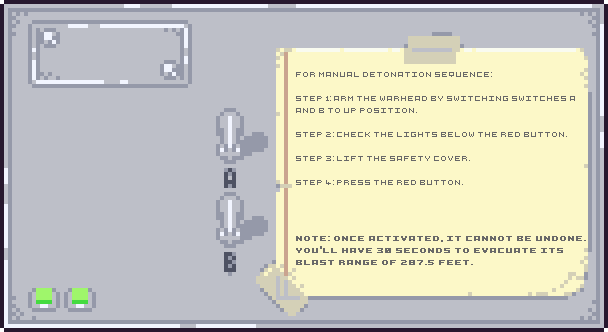
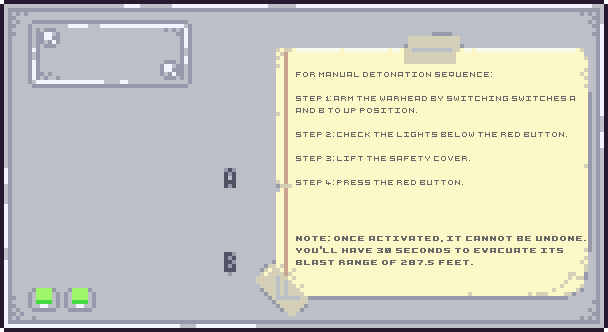
switch swotch

Changed region(s): [[0.3438, 0.5723, 0.4688, 0.753], [0.3438, 0.3313, 0.4375, 0.512]]

diff --git a/UI/NukeDetonationUI.cs b/UI/NukeDetonationUI.cs
@@ -18,9 +18,13 @@ namespace Redemption.UI
     {
         private readonly UIImage BgSprite = new(ModContent.Request<Texture2D>("Redemption/UI/NukeDetonationUI_BG", ReLogic.Content.AssetRequestMode.ImmediateLoad));
         private readonly UIImage ButtonSprite = new(ModContent.Request<Texture2D>("Redemption/UI/NukeDetonationUI_Button1", ReLogic.Content.AssetRequestMode.ImmediateLoad));
+        private readonly UIImageButton SwitchSprite1 = new(ModContent.Request<Texture2D>("Redemption/UI/NukeDetonationUI_SwitchDown", ReLogic.Content.AssetRequestMode.ImmediateLoad));
+        private readonly UIImageButton SwitchSprite2 = new(ModContent.Request<Texture2D>("Redemption/UI/NukeDetonationUI_SwitchDown", ReLogic.Content.AssetRequestMode.ImmediateLoad));
         public readonly UIImageButton Button = new(ModContent.Request<Texture2D>(Redemption.EMPTY_TEXTURE));
 
         public int ButtonState = 0;
+        public bool Switch1State;
+        public bool Switch2State;
         public int Timer = 0;
         public static bool Visible = false;
 
@@ -31,6 +35,20 @@ namespace Redemption.UI
             BgSprite.Top.Set((Main.screenHeight / 2) - 332 / 2, 0f);
             BgSprite.Left.Set((Main.screenWidth / 2) - 608 / 2, 0f);
             BgSprite.VAlign = BgSprite.HAlign = 0.5f;
+
+            SwitchSprite1.Left.Set(216, 0f);
+            SwitchSprite1.Top.Set(108, 0f);
+            SwitchSprite1.Width.Set(52, 0f);
+            SwitchSprite1.Height.Set(48, 0f);
+            SwitchSprite1.OnClick += new MouseEvent(Switch1Clicked);
+            BgSprite.Append(SwitchSprite1);
+
+            SwitchSprite2.Left.Set(216, 0f);
+            SwitchSprite2.Top.Set(192, 0f);
+            SwitchSprite2.Width.Set(52, 0f);
+            SwitchSprite2.Height.Set(48, 0f);
+            SwitchSprite2.OnClick += new MouseEvent(Switch2Clicked);
+            BgSprite.Append(SwitchSprite2);
 
             ButtonSprite.Left.Set(8, 0f);
             ButtonSprite.Top.Set(-112, 0f);
@@ -57,20 +75,37 @@ namespace Redemption.UI
 
             Append(BgSprite);
         }
+        private void Switch1Clicked(UIMouseEvent evt, UIElement listeningElement)
+        {
+            SoundEngine.PlaySound(SoundID.MenuTick);
+            SwitchSprite1.SetImage(ModContent.Request<Texture2D>("Redemption/UI/NukeDetonationUI_SwitchUp", ReLogic.Content.AssetRequestMode.ImmediateLoad));
+            Switch1State = true;
+            Main.isMouseLeftConsumedByUI = true;
+        }
+        private void Switch2Clicked(UIMouseEvent evt, UIElement listeningElement)
+        {
+            SoundEngine.PlaySound(SoundID.MenuTick);
+            SwitchSprite2.SetImage(ModContent.Request<Texture2D>("Redemption/UI/NukeDetonationUI_SwitchUp", ReLogic.Content.AssetRequestMode.ImmediateLoad));
+            Switch2State = true;
+            Main.isMouseLeftConsumedByUI = true;
+        }
         private void NukeButtonClicked(UIMouseEvent evt, UIElement listeningElement)
         {
             SoundEngine.PlaySound(SoundID.MenuTick);
-            if (ButtonState < 2 && Vector2.Distance(RedeWorld.nukeGroundZero, new Vector2(Main.spawnTileX * 16, Main.spawnTileY * 16)) > (Main.maxTilesX / 8 * 16) && RedeWorld.nukeGroundZero.Y < (Main.worldSurface * 16f))
+            if (Switch1State && Switch2State)
             {
-                ++ButtonState;
-            }
-            else if (ButtonState < 2)
-            {
-                string status = "The bomb must be activated on the surface and in the far reaches of the world";
-                if (Main.netMode == NetmodeID.Server)
-                    ChatHelper.BroadcastChatMessage(NetworkText.FromLiteral(status), Color.White);
-                else if (Main.netMode == NetmodeID.SinglePlayer)
-                    Main.NewText(Language.GetTextValue(status), Color.White);
+                if (ButtonState < 2 && Vector2.Distance(RedeWorld.nukeGroundZero, new Vector2(Main.spawnTileX * 16, Main.spawnTileY * 16)) > (Main.maxTilesX / 8 * 16) && RedeWorld.nukeGroundZero.Y < (Main.worldSurface * 16f))
+                {
+                    ++ButtonState;
+                }
+                else if (ButtonState < 2)
+                {
+                    string status = "The bomb must be activated on the surface and in the far reaches of the world";
+                    if (Main.netMode == NetmodeID.Server)
+                        ChatHelper.BroadcastChatMessage(NetworkText.FromLiteral(status), Color.White);
+                    else if (Main.netMode == NetmodeID.SinglePlayer)
+                        Main.NewText(Language.GetTextValue(status), Color.White);
+                }
             }
             Main.isMouseLeftConsumedByUI = true;
         }
